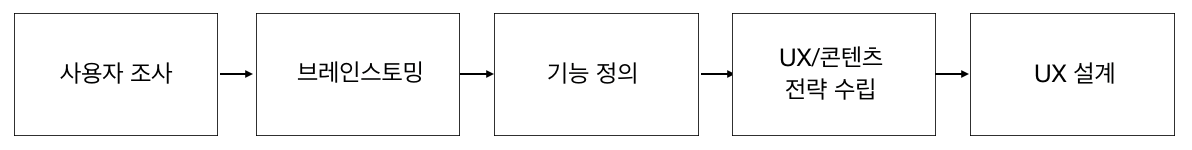
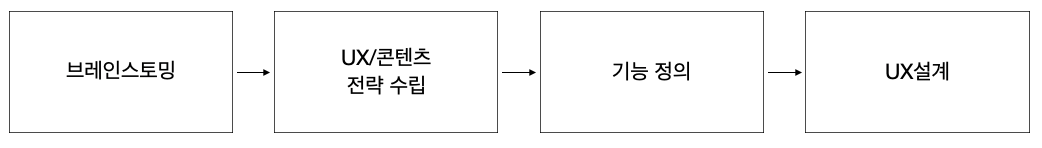
clean up

diff --git a/works/realclass.html b/works/realclass.html
@@ -7,12 +7,12 @@
 		<div class="modal-body">
 			<div class="row">
 				<div class="col-md-8">
-					<p>에듀테크 스타트업 퀄슨에서 드라마, 영화를 통해 즐겁게 영어 학습을 하는 사람들을 위한 영상 콘텐츠 기반의 영어 학습 서비스 <a class="url" href="http://realclass.co.kr/" target="_blank">리얼클래스 http://realclass.co.kr/</a>와 <a class="url" href="https://britenglish.co.kr/" target="_blank">브릿잉글리쉬 https://britenglish.co.kr/</a> 서비스 개발에 참여했습니다.</p> 
+					<p>에듀테크 스타트업 퀄슨에서 드라마, 영화를 통해 즐겁게 영어 학습을 하는 사람들을 위한 영상 콘텐츠 기반의 영어 학습 서비스 <a class="url" href="http://realclass.co.kr/" target="_blank">리얼클래스</a>와 <a class="url" href="https://britenglish.co.kr/" target="_blank">브릿잉글리쉬</a> 서비스 개발에 참여했습니다.</p> 
 				</div>
 				<div class="col-md-4">
 					<h6>Role</h6>
 					<p><b>UX설계, PM</b></p>
-					<p>2018</p>
+					<p>2018.03 - 2018.11</p>
 				</div>
 			</div>
 
@@ -22,10 +22,9 @@
 			·영어 학습에서 가장 중요한 말하기 학습 지원 미비</p> 
 
 			<h4>과정</h4>
-			<img src="/img/works_realclass_1.png">
-			<p>·사용자 니즈 도출
-			<br>·브레인스토밍을 통한 신규 기능 정의
-			<br>·신규 기능을 효과적으로 녹여낼 수 있는 UX/콘텐츠 전략 수립 및 UX설계</p>
+			<img src="/img/works_realclass_1.png?202009">
+			<p>·브레인스토밍을 UX/콘텐츠 전략 수립
+			<br>·신규 기능 도출 및 UX설계</p>
 
 
 			<h4>결과</h4>

diff --git a/works/tictoc.html b/works/tictoc.html
@@ -9,13 +9,13 @@
 		<div class="modal-body">
 			<div class="row">
 				<div class="col-md-8">
-					<p>아이돌봄 매칭 플랫폼 <a class="url" href="http://tictoccroc.com/" target="_blank">째깍악어 http://tictoccroc.com/</a>의 모바일 앱 개편 프로젝트를 진행했습니다.</p>
+					<p>아이돌봄 매칭 플랫폼 <a class="url" href="http://tictoccroc.com/" target="_blank">째깍악어</a>의 모바일 앱 개편 프로젝트를 진행했습니다.</p>
 				</div>
 				<div class="col-md-4">
 					<h6>Role</h6>
 					<p><b>UX, 프론트엔드 개발</b></p>
-					<p>UX설계, 콘텐츠 전략, 프론트엔드 개발, 스프린트 관리</p>
-					<p>2018</p>
+					<p>UX설계, 프론트엔드 개발, 스프린트 관리</p>
+					<p>2017.10 - 2018.02</p>
 				</div>
 			</div>
 
@@ -33,8 +33,8 @@
 			<h4>결과</h4>
 			<p>· 온보딩 플로우 변경<br>
 			· 홈 화면 콘텐츠 전략 수립 <br>
-			· UI 컬러 정리 및 기타 UX 개선<br>
-			· 간편결제 기능 추가</p>
+			· 간편결제 기능 구현<br>
+			· 기타 UX 개선<br>
 			<img src="/img/works_tictoc_2.png"></div>
 
 		</div>

diff --git a/works/knowre.html b/works/knowre.html
@@ -8,12 +8,12 @@
 		<div class="modal-body">
 			<div class="row">
 				<div class="col-md-8">
-					<p>에듀테크 스타트업 Knowre에서 진행한 태블릿용 연산학습 어플리케이션 '연산노리' 프로젝트에 초기부터 참여하여, 개발 및 검증을 거쳐 수학교육복합센터 <a class="url" href="https://knowresquare.kr/knowre.html"  target="_blank" style="text-decoration: underline;">노리스퀘어 https://knowresquare.kr/knowre.html</a>에서 2017년 3월 정식 런칭했습니다.</p> 
+					<p>에듀테크 스타트업 <a class="url" href="https://www.knowre.com/" target="_blank" style="text-decoration: underline;">Knowre</a>에서 진행한 태블릿용 연산학습 어플리케이션 '연산노리' 프로젝트에 초기부터 참여하여 런칭했습니다.</p> 
 				</div>
 				<div class="col-md-4">
 					<h6>Role</h6>
 					<p><b>UX설계 / PM</b><br>사용자 조사, UX설계, 스프린트 관리</p>
-					<p>2015 - 2017</p>
+					<p>2015.05 - 2017.05</p>
 				</div>
 			</div>
 

diff --git a/works/fitpet.html b/works/fitpet.html
@@ -14,8 +14,8 @@
 				</div>
 				<div class="col-md-4">
 					<h6>Role</h6>
-					<p><b>UX Lead / PM</b><br>UX전략, 사용자 조사, 스프린트 관리</p>
-					<p>2019</p>
+					<p><b>UX Lead / PM</b><br>UX전략, 스프린트 관리</p>
+					<p>2019.05 - 2019.12</p>
 				</div>
 			</div>
 
@@ -24,11 +24,10 @@
 			 ·반려동물의 건강을 함께 지키는 제품 특성에 맞는 반려동물 헬스케어 콘텐츠 보완 및 톤앤매너 개선 필요</p> 
 
 			<h4>과정</h4>
-			<img src="/img/works_fitpet_1.png?2020">
-			<p>·비즈니스 방향성 및 VoC를 수렴하여 문제 정의
-			<br>·브레인스토밍을 통한 기능 정의
-			<br>·서비스 UX/콘텐츠 전략 수립
-			<br>·UX설계 및 디자인</p>
+			<img src="/img/works_fitpet_1.png?202009">
+			<p>·사용자 조사/데이터 분석(Tableau)을 통한 문제 정의
+			<br>·브레인스토밍을 통한 UX/콘텐츠 전략 수립
+			<br>·기능 도출 및 UX설계/디자인 관리</p>
 
 			<h4>결과</h4>
 			<div class="row">

diff --git a/works/mmt.html b/works/mmt.html
@@ -9,12 +9,12 @@
 		<div class="modal-body">
 			<div class="row">
 				<div class="col-md-8">
-					<p>팬 중심 크라우드 콘서트 메이킹 플랫폼을 만드는 스타트업 <a class="url" href="http://MyMusicTaste.com/" target="_blank">마이뮤직테이스트 http://mymusictaste.com/</a>에서 서비스 관리를 위한 데이터 관리 페이지의 UX설계부터 프론트엔드 개발까지 1인 프로젝트로 진행했습니다.</a></p>
+					<p>팬 중심 크라우드 콘서트 메이킹 플랫폼을 만드는 스타트업 <a class="url" href="http://MyMusicTaste.com/" target="_blank">마이뮤직테이스트</a>에서 서비스 관리를 위한 데이터 관리 페이지의 UX설계부터 프론트엔드 개발까지 1인 프로젝트로 진행했습니다.</a></p>
 				</div>
 				<div class="col-md-4">
 					<h6>Role</h6>
 					<p><b>프론트엔드 개발, UX</b></p>
-					<p>2013-2014</p>
+					<p>2013.01 - 2014.02</p>
 				</div>
 			</div>
 			<hr>

diff --git a/index.html b/index.html
@@ -169,11 +169,10 @@
 		<!-- javascript -->
 		<script>
 			$( "#works_fitpet" ).load( "/works/fitpet.html?202009" );
-			$( "#works_realclass" ).load( "/works/realclass.html?202009" );
-			$( "#works_tictoc" ).load( "/works/tictoc.html?202005" );
-			// $( "#works_cycle" ).load( "/works/cycle.html" );
-			$( "#works_knowre" ).load( "/works/knowre.html?202005" );
-			$( "#works_mmt" ).load( "/works/mmt.html?202005" );
+			$( "#works_realclass" ).load( "/works/realclass.html?202010" );
+			$( "#works_tictoc" ).load( "/works/tictoc.html?202009" );
+			$( "#works_knowre" ).load( "/works/knowre.html?202009" );
+			$( "#works_mmt" ).load( "/works/mmt.html?202009" );
 			$( "#works_swww" ).load( "/works/swww.html?202009" );
 			$( "#works_saeharu" ).load( "/works/saeharu.html?202009" );
 

diff --git a/works/swww.html b/works/swww.html
@@ -10,7 +10,7 @@
 		<div class="modal-body">
 			<div class="row">
 				<div class="col-md-8">
-					<p>'단순하고 조화로운 움직임'을 이어나가는 <a href="http://www.swww.co.kr/" target="_blank"> '느긋하게 http://www.swww.co.kr/'</a> 의 '나무와 함께 느긋한 생활' 일러스트 작업입니다.</p> 
+					<p>단순하고 조화로운 움직임을 이어나가는 <a href="http://www.swww.co.kr/" target="_blank">느긋하게</a> 의 '나무와 함께 느긋한 생활' 일러스트 작업입니다.</p> 
 				</div>
 				<div class="col-md-4">
 					<p>2020</p>
